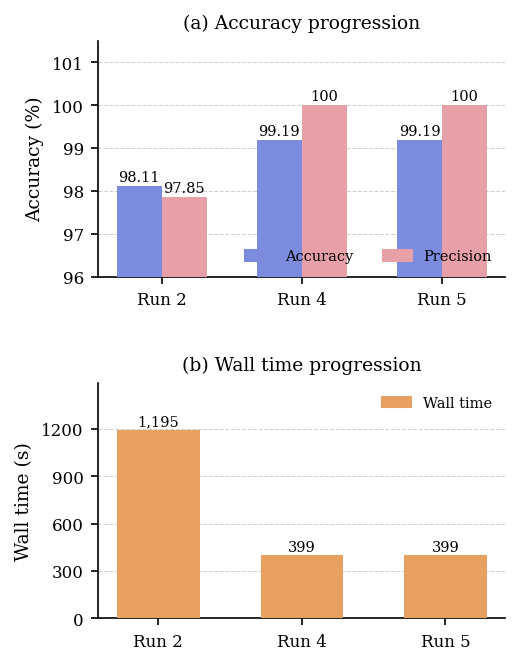
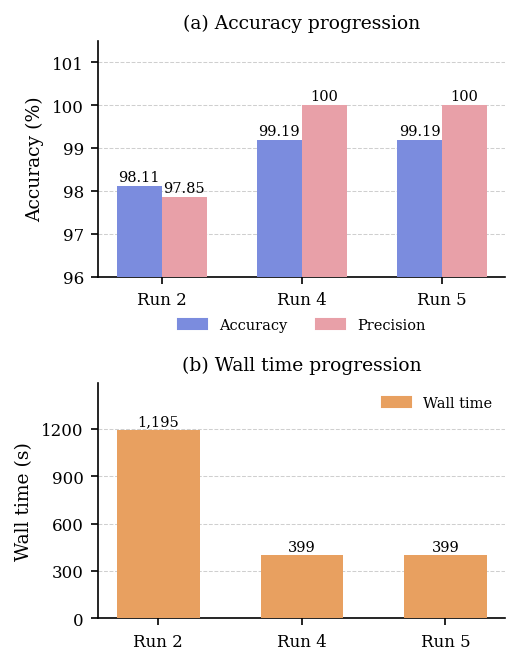
Fix legend position in accuracy progression chart

diff --git a/scripts/plot_results.py b/scripts/plot_results.py
@@ -121,13 +121,18 @@ legend_patches = [
     mpatches.Patch(color=COL_ACCURACY,  label="Accuracy"),
     mpatches.Patch(color=COL_PRECISION, label="Precision"),
 ]
+
 ax_top.legend(
     handles=legend_patches,
-    loc="lower right",
+    loc="upper center",
+    bbox_to_anchor=(0.5, -0.12),
     fontsize=7,
     frameon=False,
     ncol=2,
 )
+
+
+
  
 # ============================================================
 # (b) Wall time progression — single bar chart
@@ -156,6 +161,8 @@ for bar in bars_wall:
  
 # Legend
 wall_patch = mpatches.Patch(color=COL_WALL, label="Wall time")
+
+
 ax_bot.legend(
     handles=[wall_patch],
     loc="upper right",
